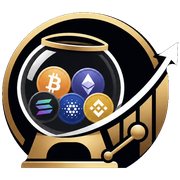
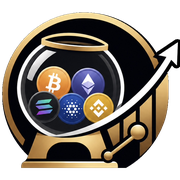
Outline the arrow tip in black so it reads on light tabs
The arrow extends about 89px past the ring. Inside the ring it sits on the
filled black interior and reads fine, but beyond it the arrow is white on bare
tab colour, so it disappears entirely on a light theme.

Adds a 14px black outline around just that protruding tip. The border is
dilated from the tip mask and intersected with currently-transparent pixels, so
it can only grow into empty space and never paints over the ring or the bars.
The arrow itself is untouched and stays white.

Measured on white over the tip's own footprint, this takes mean brightness from
228 (effectively invisible) to about 158, holding at 512, 64 and 32px. 20px
reads slightly stronger but looks heavy at full size; 8px fades by 32px.

Claude-Session: https://claude.ai/code/session_01Py4Bn8WitQNYK2hzsi2tAu

Changed region(s): [[0.8611, 0.1944, 1.0, 0.4167]]

diff --git a/README.md b/README.md
@@ -103,7 +103,16 @@ and verified against 8 angles.
 
 That disc is **clipped at the emblem's bottom (y=786)**. The ring's lower arc is occluded by
 the stand, so an unclipped disc would reach y=827 and paint 41px of black below the artwork.
-Final alpha is the filled silhouette unioned with that clipped disc.
+
+One last piece: the arrow's tip extends ~89px **past** the ring, so out there it is white
+sitting directly on the tab colour and vanishes on a light theme. It gets a **14px black
+outline**, dilated from the tip and masked to currently-transparent pixels only, so it can
+never paint over the ring. That takes the tip's footprint from a mean brightness of 228 on
+white (invisible) to ~158, consistently at 512/64/32px. 20px reads slightly stronger but
+looks heavy at full size; 8px is too faint by 32px.
+
+Final alpha is the filled silhouette, unioned with the clipped ring disc, unioned with the
+arrow-tip outline.
 
 Filling the interior also brings the arrow back. It is near-white, so on a transparent
 icon over a light tab bar it vanishes into the background — but against the restored black
